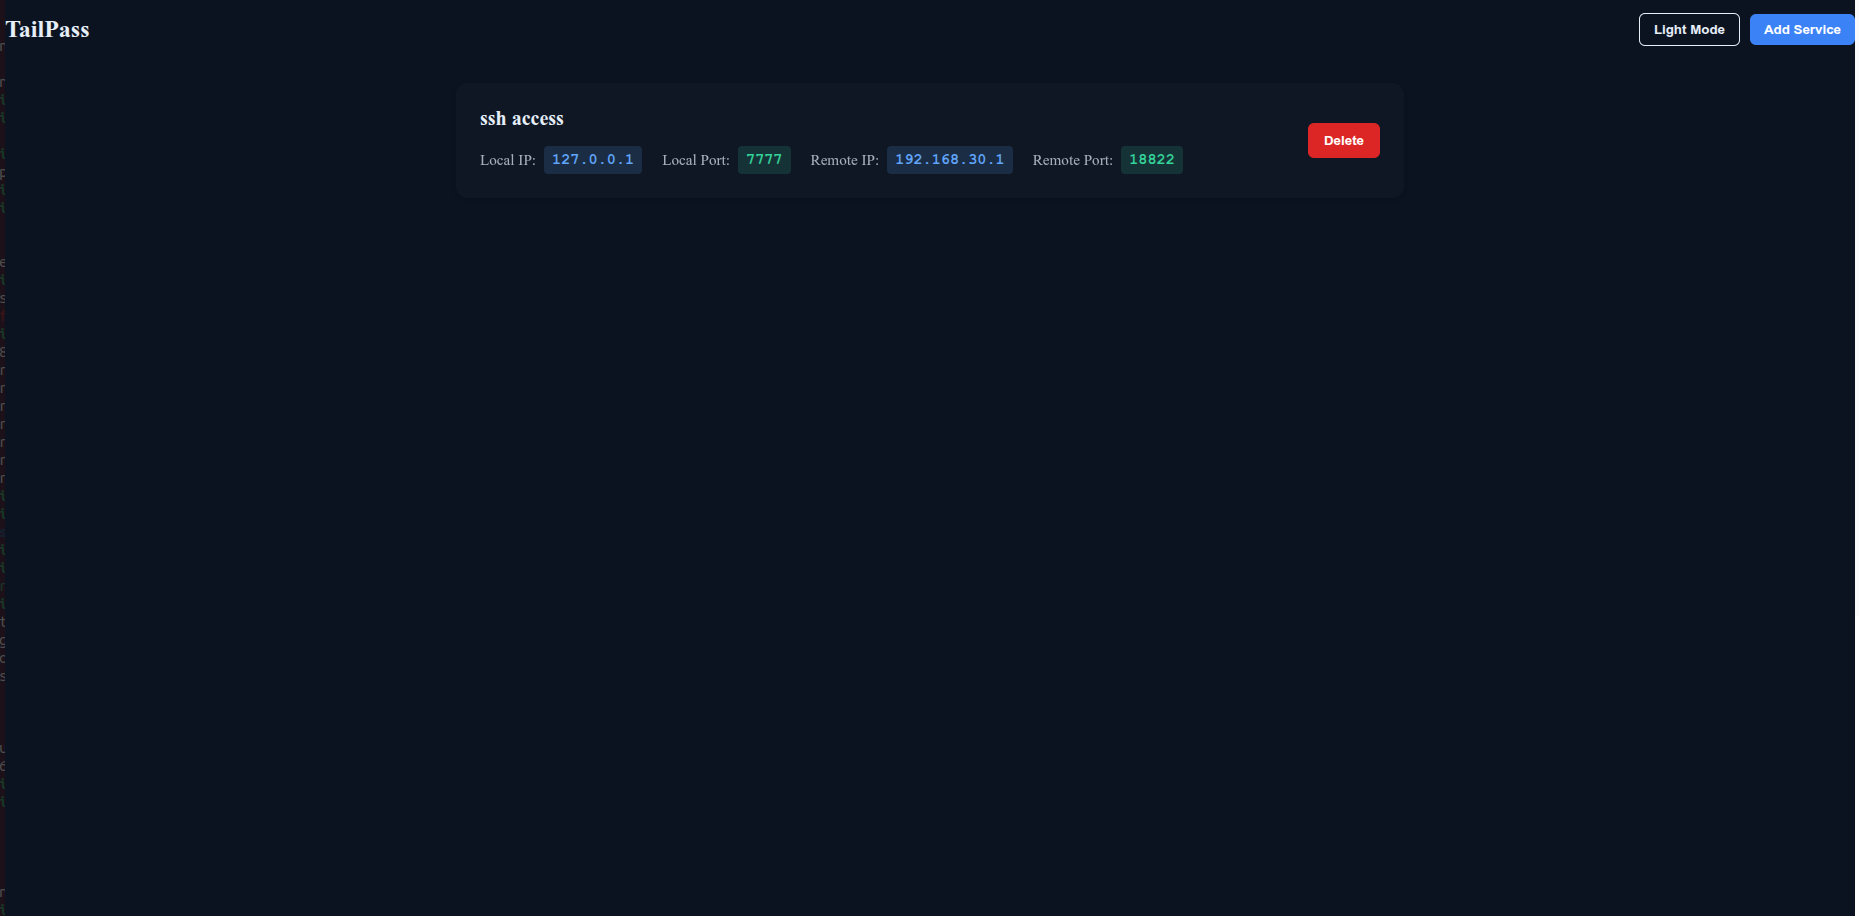
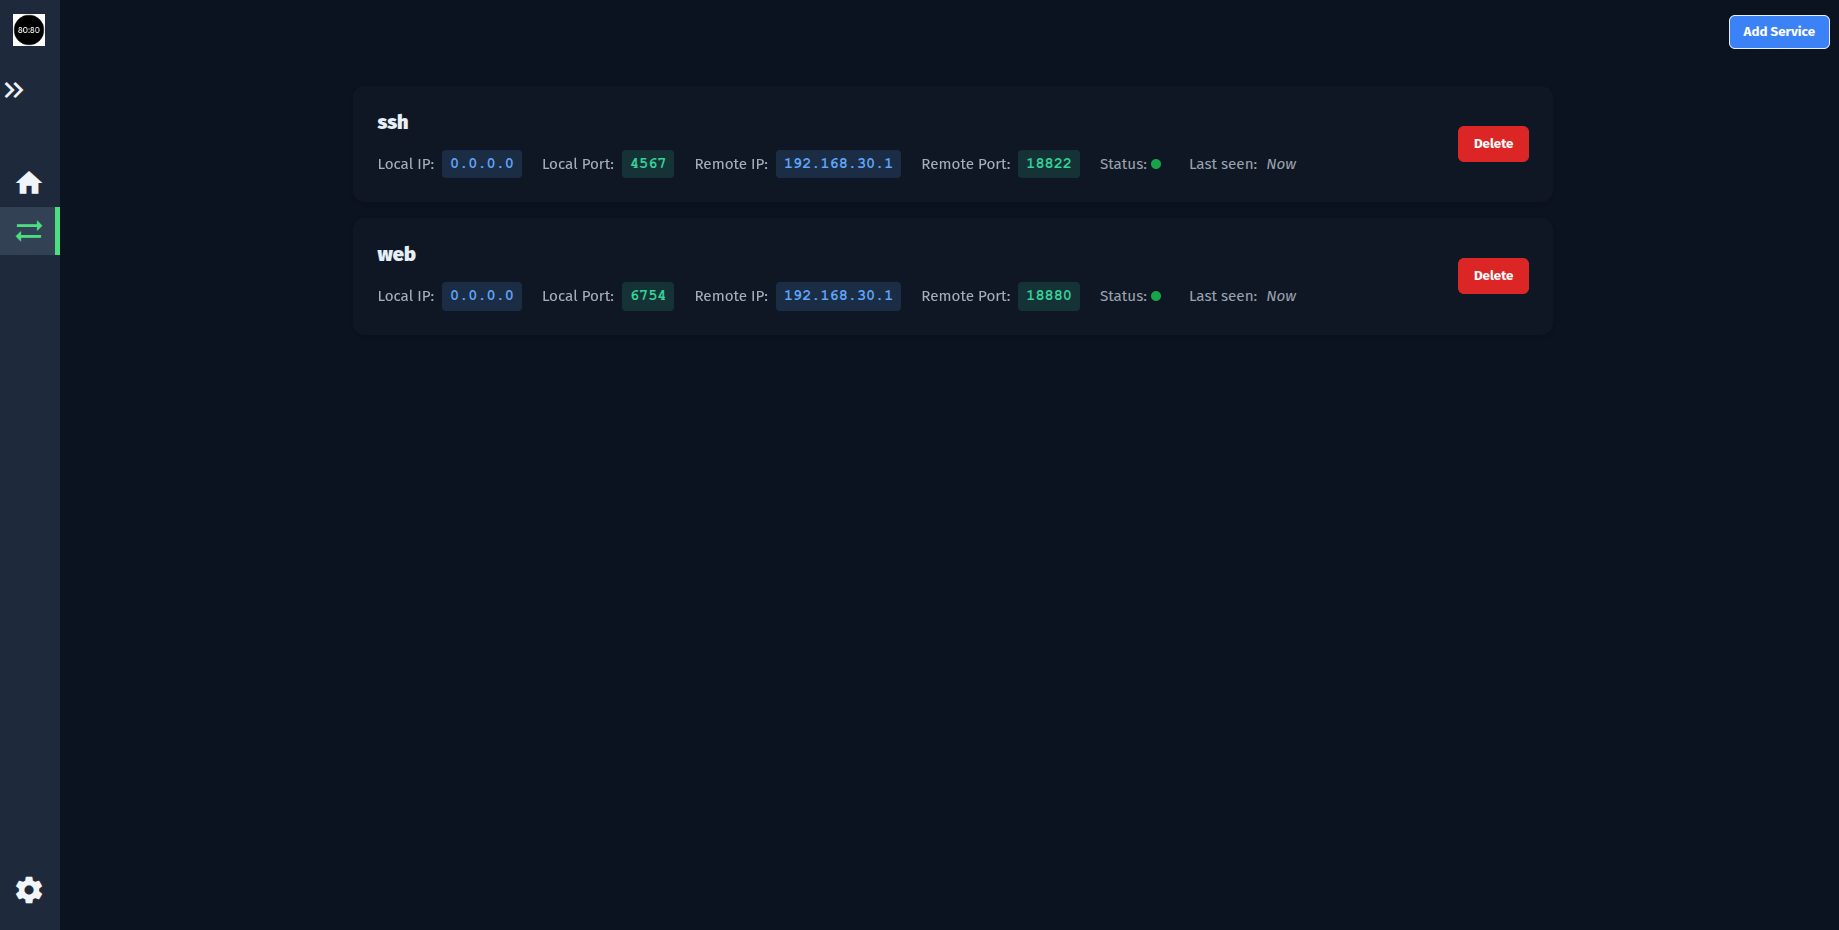
updating image and Readme

diff --git a/README.md b/README.md
@@ -22,18 +22,7 @@ Add your local and remote services, start the tunnel, and your traffic flows sea
 ### Create
 
 ![Create](images/Create.png)
-
-
-### Service access
-
-![SSH_Access](images/SSH_Access.png)
-
-
-### Access TailPass with Phone
-
-<p align="left">
-  <img src="images/TailPass_with_termux.jpg" alt="Tailpass" width="300">
-</p>
+![View](Image/View.png)
 
 # Running TailPass with Docker Compose
 TailPass consists of:
